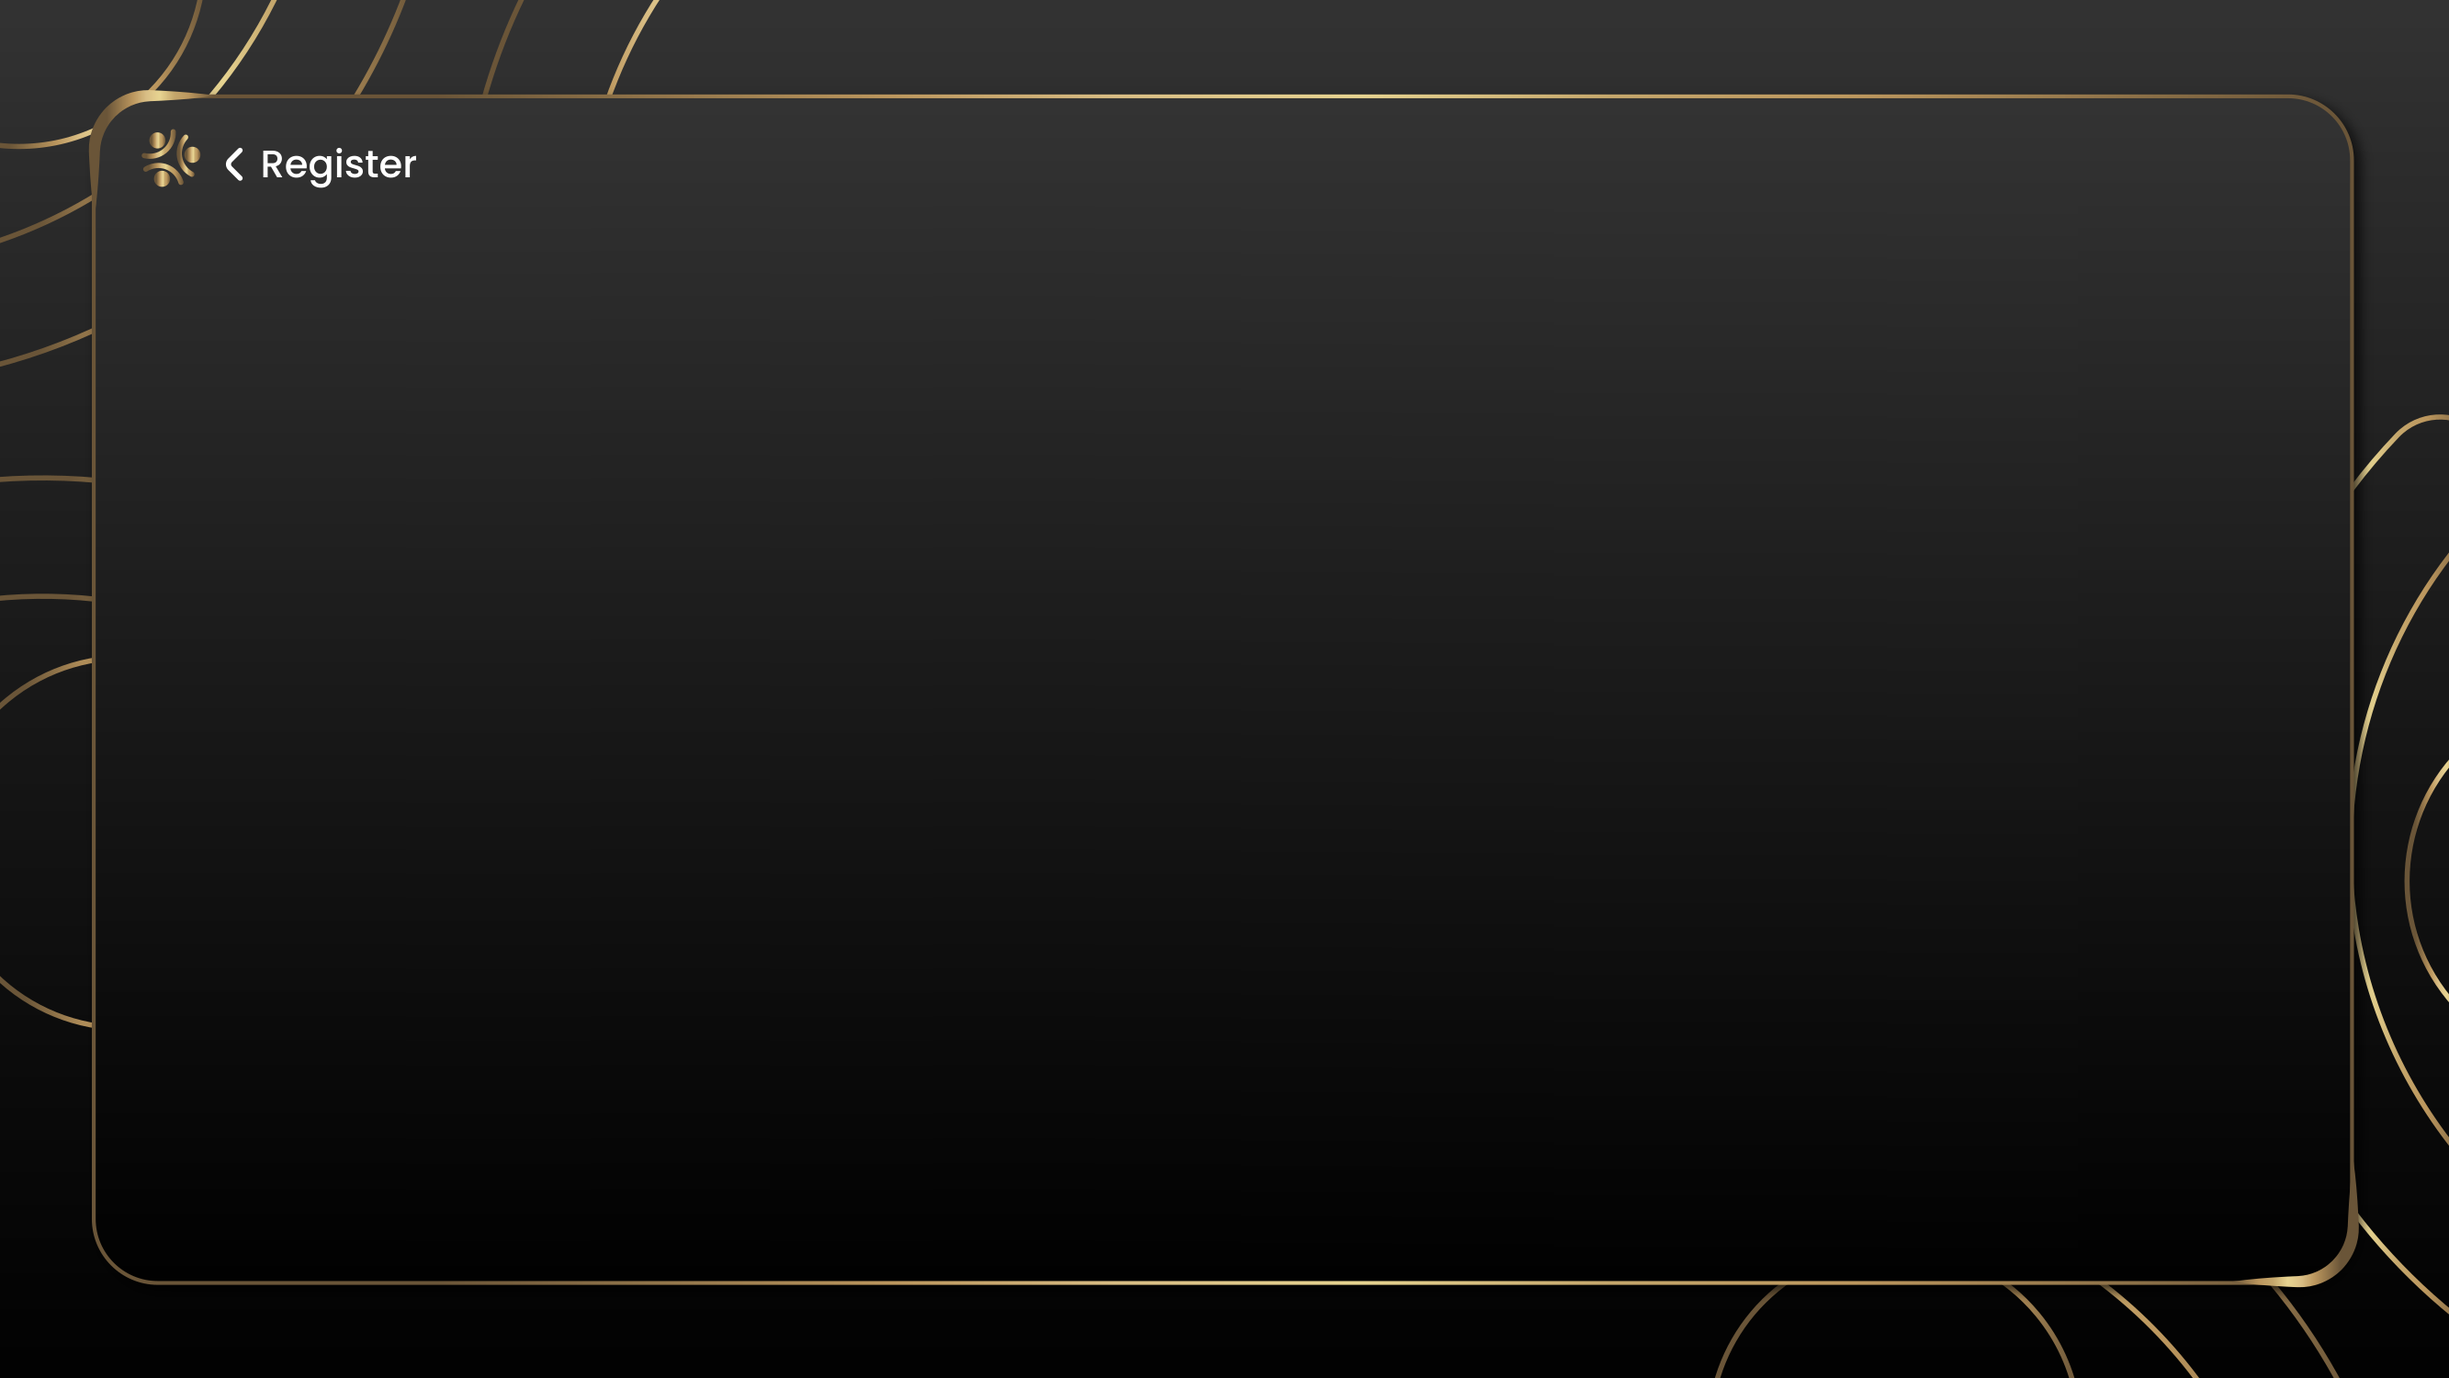
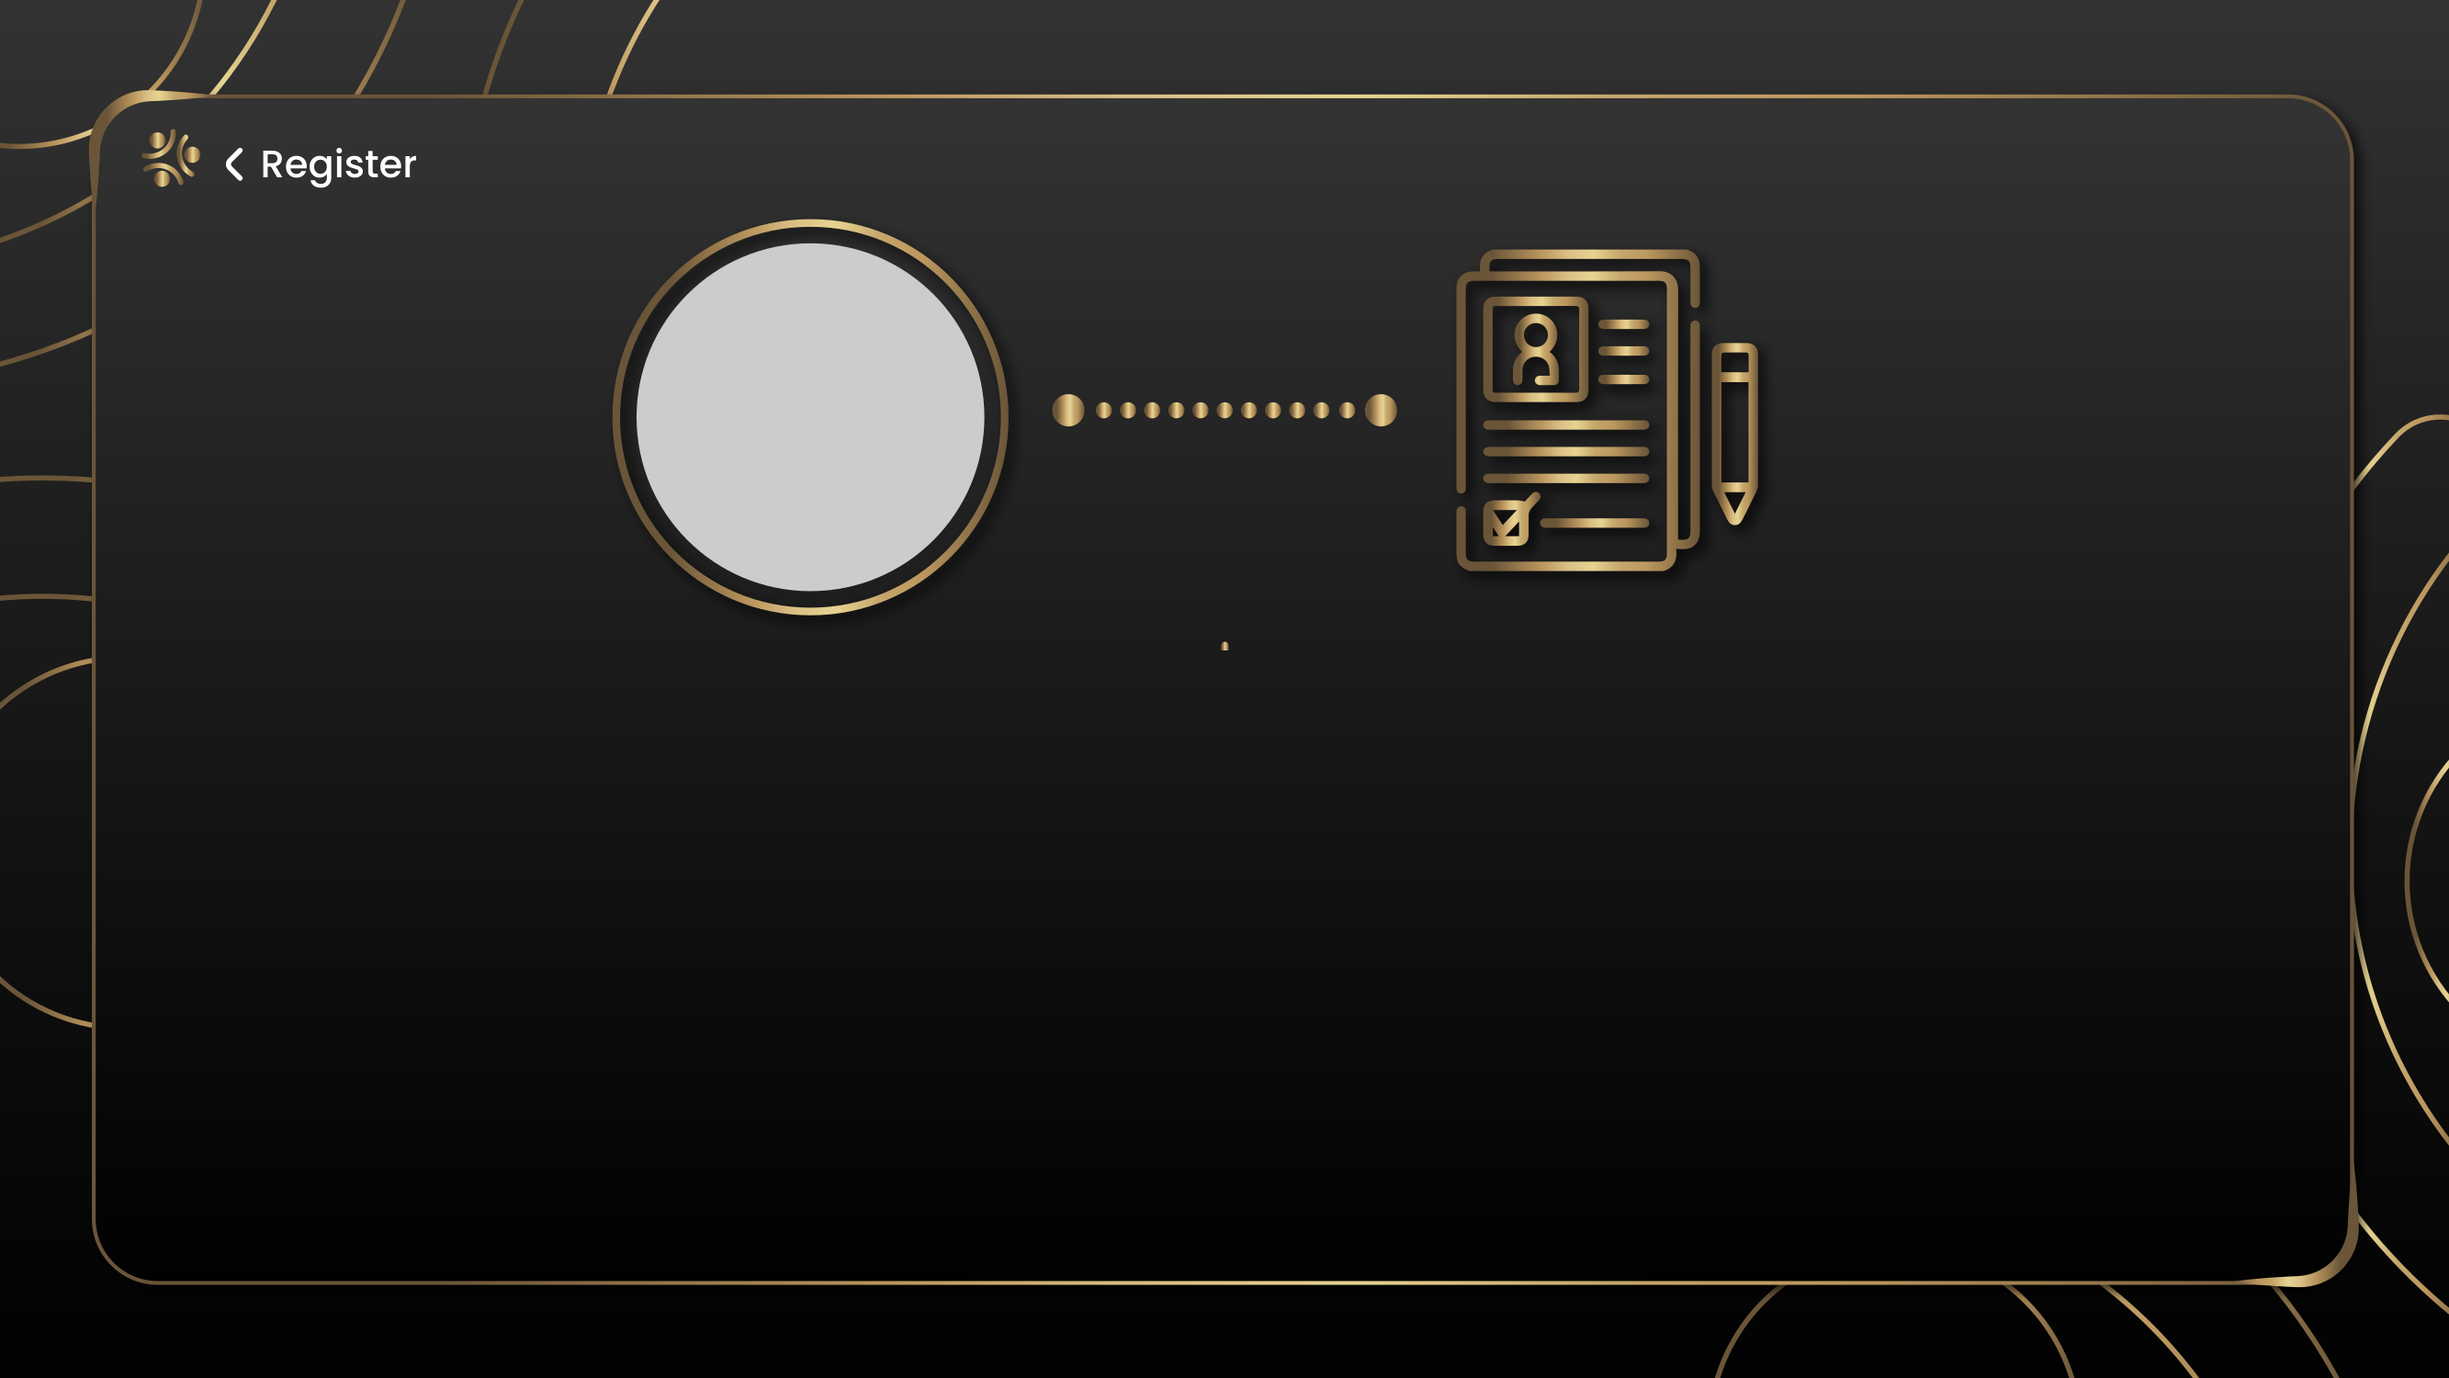
partial fontsize

Changed region(s): [[0.2491, 0.1533, 0.7161, 0.46]]

diff --git a/lib/pages/signup/widgets/signupform.dart b/lib/pages/signup/widgets/signupform.dart
@@ -27,78 +27,145 @@ class _SignUpFormState extends State<SignUpForm> {
   @override
   Widget build(BuildContext context) {
     var session = getContext('session');
+    double width = 0.2;
+    double height = 0.08;
     return Form(
       key: widget.formKey,
       child: Padding(
         padding: EdgeInsets.symmetric(
             horizontal: MediaQuery.of(context).size.width / 6),
-        child: Row(
-          crossAxisAlignment: CrossAxisAlignment.center,
+        child: Column(
           children: [
-            Column(
+            SizedBox(
+              height: MediaQuery.of(context).size.height / 4.5,
+            ),
+            Row(
               crossAxisAlignment: CrossAxisAlignment.center,
               children: [
+                const Spacer(
+                  flex: 1,
+                ),
                 SizedBox(
                   child: RoundedFormField(
+                    height: height,
+                    width: width,
                     onSaved: (value) => widget.state.identification = value!,
                     hintText: 'Identification',
                   ),
                 ),
-                SizedBox(height: kDefaultPadding),
-                SizedBox(
-                  child: RoundedFormField(
-                    onSaved: (value) => widget.state.identification = value!,
-                    hintText: 'Names',
-                  ),
+                const Spacer(
+                  flex: 1,
                 ),
-                SizedBox(height: kDefaultPadding),
                 SizedBox(
                   child: RoundedFormField(
-                    onSaved: (value) => widget.state.surname = value!,
-                    hintText: 'Surnames',
-                  ),
-                ),
-                SizedBox(height: kDefaultPadding),
-                SizedBox(
-                  child: RoundedFormField(
-                    onSaved: (value) => widget.state.lastname = value!,
-                    hintText: 'Email',
-                  ),
-                ),
-                SizedBox(height: kDefaultPadding),
-              ],
-            ),
-            Column(
-              crossAxisAlignment: CrossAxisAlignment.center,
-              children: [
-                SizedBox(
-                  child: RoundedFormField(
-                    onSaved: (value) => widget.state.identification = value!,
+                    height: height,
+                    width: width,
+                    onSaved: (value) => widget.state.phone = value!,
                     hintText: 'Phone',
                   ),
                 ),
-                SizedBox(height: kDefaultPadding),
+                const Spacer(
+                  flex: 1,
+                ),
+              ],
+            ),
+            SizedBox(
+              height: MediaQuery.of(context).size.height * 0.01,
+            ),
+            Row(
+              crossAxisAlignment: CrossAxisAlignment.center,
+              children: [
+                const Spacer(
+                  flex: 1,
+                ),
                 SizedBox(
                   child: RoundedFormField(
+                    height: height,
+                    width: width,
+                    onSaved: (value) => widget.state.name = value!,
+                    hintText: 'Name',
+                  ),
+                ),
+                const Spacer(
+                  flex: 1,
+                ),
+                SizedBox(
+                  child: RoundedFormField(
+                    height: height,
+                    width: width,
                     onSaved: (value) => widget.state.surname = value!,
+                    hintText: 'Surname',
+                  ),
+                ),
+                const Spacer(
+                  flex: 1,
+                ),
+              ],
+            ),
+            SizedBox(
+              height: MediaQuery.of(context).size.height * 0.01,
+            ),
+            Row(
+              crossAxisAlignment: CrossAxisAlignment.center,
+              children: [
+                const Spacer(
+                  flex: 1,
+                ),
+                SizedBox(
+                  child: RoundedFormField(
+                    height: height,
+                    width: width,
+                    onSaved: (value) => widget.state.username = value!,
                     hintText: 'Username',
                   ),
                 ),
-                SizedBox(height: kDefaultPadding),
+                const Spacer(
+                  flex: 1,
+                ),
                 SizedBox(
                   child: RoundedFormField(
-                    onSaved: (value) => widget.state.lastname = value!,
+                    height: height,
+                    width: width,
+                    onSaved: (value) => widget.state.email = value!,
+                    hintText: 'e-Mail',
+                  ),
+                ),
+                const Spacer(
+                  flex: 1,
+                ),
+              ],
+            ),
+            SizedBox(
+              height: MediaQuery.of(context).size.height * 0.01,
+            ),
+            Row(
+              crossAxisAlignment: CrossAxisAlignment.center,
+              children: [
+                const Spacer(
+                  flex: 1,
+                ),
+                SizedBox(
+                  child: RoundedFormField(
+                    height: height,
+                    width: width,
+                    onSaved: (value) => widget.state.password = value!,
                     hintText: 'Password',
                   ),
                 ),
-                SizedBox(height: kDefaultPadding),
+                const Spacer(
+                  flex: 1,
+                ),
                 SizedBox(
                   child: RoundedFormField(
-                    onSaved: (value) => widget.state.lastname = value!,
+                    height: height,
+                    width: width,
+                    onSaved: (value) => widget.state.confirmation = value!,
                     hintText: 'Confirmation',
                   ),
                 ),
-                SizedBox(height: kDefaultPadding),
+                const Spacer(
+                  flex: 1,
+                ),
               ],
             ),
           ],

diff --git a/lib/common/widgets/roundedformfield.dart b/lib/common/widgets/roundedformfield.dart
@@ -1,41 +1,55 @@
 import 'package:flutter/material.dart';
 import 'package:get/get.dart';
+import 'package:naver_crs/common/constants.dart';
 
 class RoundedFormField extends StatelessWidget {
+  final double horizontal;
+  final double vertical;
+  final double width;
+  final double height;
+  final double fontWeight;
+  final String hintText;
+
   RoundedFormField(
       {Key? key,
       required this.hintText,
       this.horizontal = 30,
       this.vertical = 30,
-      this.width = 0.3,
+      this.width = 1,
+      this.height = 0.1,
+      this.fontWeight = 0.020,
       required this.onSaved,
       this.password = false})
       : super(key: key);
 
-  final double horizontal;
-  final double vertical;
-  final double width;
-  final String hintText;
   final void Function(String?)? onSaved;
   bool password;
   @override
   Widget build(BuildContext context) {
     return Container(
       width: MediaQuery.of(context).size.width * width,
+      height: MediaQuery.of(context).size.height * height,
       padding: EdgeInsets.symmetric(
         horizontal: horizontal,
         vertical: vertical,
       ),
       decoration: BoxDecoration(
-          color: Colors.white, borderRadius: BorderRadius.circular(36)),
+          color: Colors.white, borderRadius: BorderRadius.circular(50)),
       child: TextFormField(
         cursorColor: Colors.grey,
-        style: const TextStyle(
+        style: TextStyle(
           color: Colors.grey,
+          fontSize: MediaQuery.of(context).size.width /
+              MediaQuery.of(context).size.height *
+              16,
         ),
         decoration: InputDecoration.collapsed(
-          hintStyle: const TextStyle(
+          hintStyle: TextStyle(
             color: Colors.grey,
+            fontSize: MediaQuery.of(context).size.width /
+                MediaQuery.of(context).size.height *
+                16,
+            decorationStyle: TextDecorationStyle.solid,
           ),
           hintText: hintText,
         ),

diff --git a/lib/common/widgets/roundedformbutton.dart b/lib/common/widgets/roundedformbutton.dart
@@ -1,4 +1,5 @@
 import 'package:flutter/material.dart';
+import 'package:naver_crs/common/constants.dart';
 
 class RoundedFormButton extends StatelessWidget {
   const RoundedFormButton({
@@ -8,8 +9,8 @@ class RoundedFormButton extends StatelessWidget {
     this.horizontal = 30,
     this.vertical = 30,
     this.fontSize,
-    this.width = 0.2,
-    this.height = 0.11,
+    this.width = 0.3,
+    this.height = 0.10,
   }) : super(key: key);
 
   final double horizontal;
@@ -33,14 +34,21 @@ class RoundedFormButton extends StatelessWidget {
         ),
         decoration: BoxDecoration(
             color: Colors.grey.shade800,
-            borderRadius: BorderRadius.circular(36)),
-        child: Text(
-          label,
-          style: TextStyle(
-              color: Colors.white,
-              fontSize: fontSize ?? MediaQuery.of(context).size.height * 0.025,
-              fontWeight: FontWeight.bold),
-          textAlign: TextAlign.center,
+            borderRadius: BorderRadius.circular(50)),
+        child: Align(
+          alignment: Alignment.topCenter,
+          child: Text(
+            label,
+            style: TextStyle(
+                overflow: TextOverflow.ellipsis,
+                color: Colors.white,
+                fontSize: MediaQuery.of(context).size.width /
+                    MediaQuery.of(context).size.height *
+                    16,
+                fontWeight: FontWeight.bold),
+            textAlign: TextAlign.start,
+            overflow: TextOverflow.ellipsis,
+          ),
         ),
       ),
     );

diff --git a/lib/pages/signup/widgets/signupform_page.dart b/lib/pages/signup/widgets/signupform_page.dart
@@ -22,11 +22,14 @@ class SignupFormPage extends GetView<StatelessWidget> {
           child: Column(
             crossAxisAlignment: CrossAxisAlignment.center,
             children: [
-              SizedBox(height: kDefaultPadding * 2),
+              SizedBox(height: MediaQuery.of(context).size.height * 0.05),
               SignUpForm(formKey: _formKey, state: ctrl!.state, profile: false),
-              SizedBox(height: kDefaultPadding * 1),
+              SizedBox(height: MediaQuery.of(context).size.height * 0.01),
               SizedBox(
                 child: RoundedFormButton(
+                  width: 0.2,
+                  height: 0.08,
+                  fontSize: MediaQuery.of(context).size.height * 0.01,
                   label: "Register",
                   onTap: () {
                     if (_formKey.currentState!.validate()) {

diff --git a/lib/pages/signup/view.dart b/lib/pages/signup/view.dart
@@ -22,6 +22,22 @@ GetBuilder<SignupController> _buildSignupFormPage(
   return GetBuilder<SignupController>(
     id: 'signup_form_page',
     builder: (controller) => ContentLayoutWidget(
-        child: SignupFormPage(ctrl: controller), text: "<  Registrarse"),
+        background: "assets/custom/img/register.png",
+        child: Stack(
+          children: [
+            Align(
+              alignment: Alignment.center,
+              child: Column(
+                children: [
+                  SizedBox(height: Get.height * 0.3),
+                  Image.asset("assets/custom/img/pipe.png",
+                      width: Get.width * 0.3, height: Get.height * 0.4),
+                ],
+              ),
+            ),
+            SignupFormPage(ctrl: controller),
+          ],
+        ),
+        text: "              "),
   );
 }

diff --git a/lib/common/widgets/content_layout.dart b/lib/common/widgets/content_layout.dart
@@ -56,6 +56,10 @@ class ContentLayoutWidget extends StatelessWidget {
                                 .textTheme
                                 .headline5!
                                 .copyWith(fontWeight: FontWeight.bold)
+                                .copyWith(
+                                    fontSize:
+                                        MediaQuery.of(context).size.height *
+                                            0.02)
                                 .copyWith(color: Colors.white)),
                       ),
                     ],

diff --git a/web/index.html b/web/index.html
@@ -122,6 +122,7 @@
   </script>
 </body>
 <script type="text/javascript">
+  document.body.style.zoom = 1.0;
   $(document).keydown(function (event) {
     if (event.ctrlKey == true && (event.which == '61' || event.which == '107' || event.which == '173' || event.which == '109' || event.which == '187' || event.which == '189')) {
       event.preventDefault();

diff --git a/lib/pages/signup/state.dart b/lib/pages/signup/state.dart
@@ -5,11 +5,13 @@ class SignupState {
   String? error = "";
   String username = "";
   String identification = "";
+  String name = "";
   String surname = "";
   String lastname = "";
   String email = "";
   String phone = "";
   String password = "";
+  String confirmation = "";
 
   // title
   final _title = "SIGNUP".obs;

diff --git a/lib/common/constants.dart b/lib/common/constants.dart
@@ -20,6 +20,7 @@ var kDefaultPadding = 20.0;
 const kDefaultRadius = BorderRadius.all(Radius.circular(8.0));
 const kFontSize = 72.0;
 var kSize = getContext('size');
+var kWindowRate = Get.width / Get.height;
 
 ///COLORES
 

diff --git a/lib/pages/signin/controller.dart b/lib/pages/signin/controller.dart
@@ -29,7 +29,7 @@ class SigninController extends GetxController {
 
     if (res['state'] == true) {
       setContext('session', res['data']);
-      Get.toNamed('/Dashboard');
+      Get.toNamed('/Loading');
     }
   }
 
